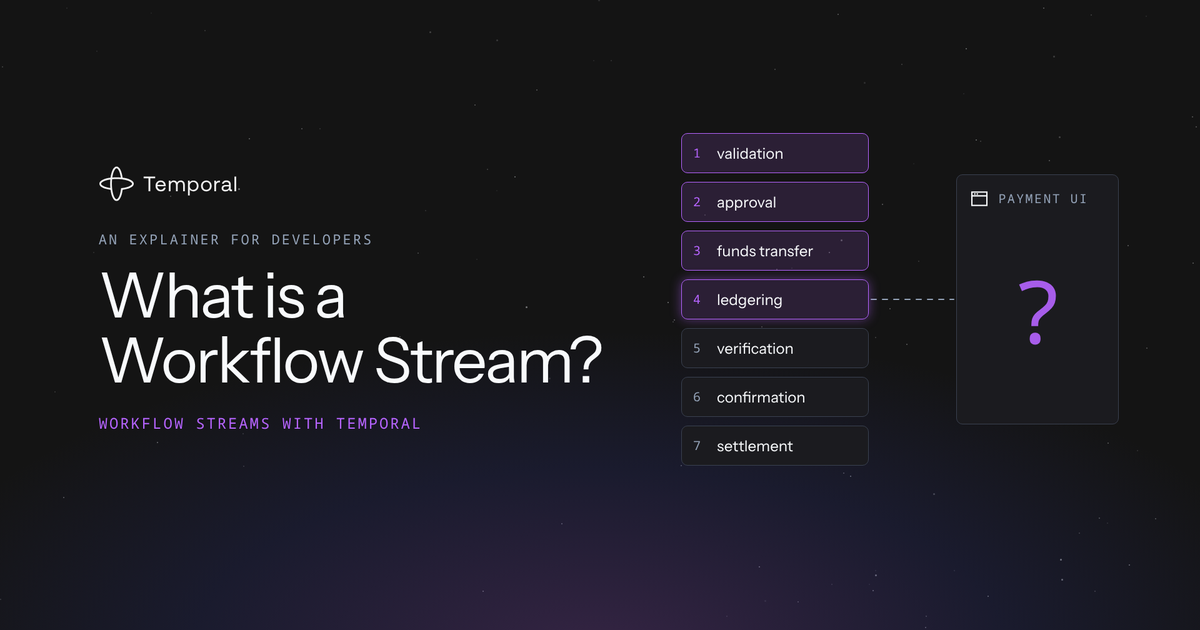
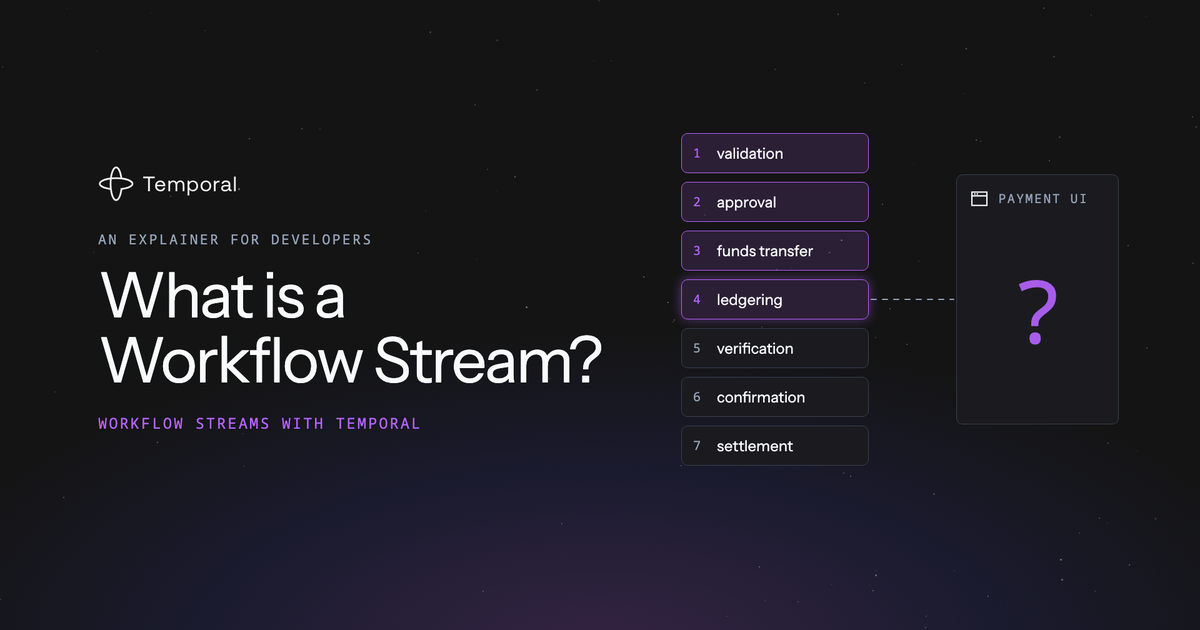
Fix the workflow-streams review findings
The subtitles write "Workflow ID", like the label, and subtitle 4 names
the UI. The Activity's line ends at the panel edge, where the batch chip
pops in clear of the ACTIVITY label; the WORKFLOW ID label sits 20 px
above the poll row; the offset pulse glows in each topic's color; the
no-broker tag, the link label and the intro title rest on whole pixels.
The status chips fly with the shared flyChip(), the PAYMENT UI heading
has one helper, and the page title is in sentence case after the colon.
Script, Markdown, link preview image and memory notes follow.

diff --git a/src/themes/workflow-streams/scenes/01-what-it-is.js b/src/themes/workflow-streams/scenes/01-what-it-is.js
@@ -1,17 +1,17 @@
 // ===================== 1. WHAT A WORKFLOW STREAM IS
 // The Workflow payment-7731 in the middle, its stream log of six offset slots; the Activity on its left, the
 // PAYMENT UI subscriber on its right. The Workflow code and the Activity (in batches) publish to the topics status and
-// progress, one offset count across both; the UI attaches by Workflow Id and long-polls from an offset, waits on the
+// progress, one offset count across both; the UI attaches by Workflow ID and long-polls from an offset, waits on the
 // next one, drops, reconnects from offset 4 and misses nothing. A UV tag closes: no broker, the log lives in the
 // Workflow.
 // The block keeps every name declared in this file local to this scene.
 {
   // Layout, in stage px before the shift: the Workflow panel (x 400-1240) between the Activity (x 120-300) and the
   // UI (x 1500-1800). In the panel, top to bottom: the heading row with the code chip on its right (HEAD_Y), STREAM
-  // over the log (STREAM_Y), the lane the Activity's batches travel along (LANE_Y, level with the Activity's center:
-  // its line enters the panel and ends with an arrow just above and left of slot 0), the log's six cells (CELL_Y,
-  // 128 px apart, x 442-1198), and the poll row under them (POLL_Y), on the line that joins the UI. The UI tile's top
-  // is level with the cells' top, its bottom with the panel's.
+  // over the log (STREAM_Y), the lane the Activity's batches travel along (LANE_Y, level with the Activity's center
+  // and with its line, which runs to the panel's left edge), the log's six cells (CELL_Y, 128 px apart, x 442-1198),
+  // and the poll row under them (POLL_Y), on the line that joins the UI. The UI tile's top is level with the cells'
+  // top, its bottom with the panel's.
   const PANEL = { x0: 400, x1: 1240, y0: 240, y1: 676 };
   const HEAD_Y = 290, STREAM_Y = 332, LANE_Y = 376, CELL_Y = 494, POLL_Y = 632;
   const cellX = i => 500 + i * 128;
@@ -21,8 +21,11 @@
   const UI = { x0: 1500, x1: 1800, y0: CELL_Y - LOG_CELL.h / 2, y1: PANEL.y1 };
   // the middle of the gap between the panel and the UI: the connection's label and the DISCONNECTED tag
   const GAP_X = (PANEL.x1 + UI.x0) / 2;
-  // where a batch pops in, between the Activity and the panel; where a poll pops in, beside the UI
-  const BATCH_FROM_X = 350, POLL_FROM_X = 1420;
+  // the connection's label, LINK_LABEL.w px wide (even: it rests on whole pixels), centered 72 px above the poll row:
+  // 20 px clear of the 56 px high copies that travel along the row
+  const LINK_LABEL = { w: 160, y: POLL_Y - 72 };
+  // where a poll pops in, beside the UI
+  const POLL_FROM_X = 1420;
   // the closing tag, 40 px under the panel
   const NO_BROKER_Y = PANEL.y1 + 40 + 33;
   // a list slot of the UI, on the stage
@@ -49,19 +52,18 @@
   // of 4 and 5; the closing tag
   const T4 = { drop: 0.2, publish4: 0.7, batch: 1.2, reconnect: 2.8, poll4: 3.1, copies: 4.2, noBroker: 5.5 };
 
-  // A status event published by the code: it pops on the code chip at `at`, flies to its cell and is absorbed there.
-  // Its cell fills at at + STATUS_LAND.
-  const STATUS_LAND = 0.6;
-  const flyStatus = (chip, t, at, i) => fly(chip, t, at, CODE.x, CODE.y, at + 0.1, 0.55, cellX(i), CELL_Y, at + 0.65,
-    cellX(i), CELL_Y);
-  // An Activity batch: one chip pops between the Activity and the panel, travels along the Activity's line and on
+  // A status event published by the code: it pops on the code chip at `at` and flies to its cell (flyChip), whose
+  // fill starts at at + STATUS_LAND, as the chip is absorbed there.
+  const STATUS_LAND = 0.5;
+  // An Activity batch: one chip pops in at the end of the Activity's line, its left edge on the panel's, travels
   // along the lane until it is over its cells, and splits there into one chip per event, which drop into their cells.
   // Its cells fill at at + BATCH_LAND.
   const BATCH_LAND = 1.25;
   const flyBatch = (batch, t, at) => {
     const xs = batch.offsets.map(cellX);
     const overX = (xs[0] + xs[xs.length - 1]) / 2;
-    fly(batch.chip, t, at, BATCH_FROM_X, LANE_Y, at + 0.15, 0.7, overX, LANE_Y, at + 0.85, overX, LANE_Y);
+    const fromX = PANEL.x0 + batch.chip.offsetWidth / 2;
+    fly(batch.chip, t, at, fromX, LANE_Y, at + 0.15, 0.7, overX, LANE_Y, at + 0.85, overX, LANE_Y);
     batch.parts.forEach((part, k) => fly(part, t, at + 0.85, overX, LANE_Y, at + 0.9, 0.4, xs[k], CELL_Y, at + 1.3,
       xs[k], CELL_Y));
   };
@@ -77,17 +79,16 @@
       { text: "A <b>Workflow Stream</b> is an event log inside a Workflow: publishers add events to named topics." },
       { text: "Each event gets the next <b>offset</b>: 0, 1, 2, 3, one count across every topic." },
       {
-        text: "A subscriber attaches by Workflow Id and long-polls from an offset: it gets every event from there on.",
+        text: "A subscriber attaches by Workflow ID and long-polls from an offset: it gets every event from there on.",
       },
       // a long hold on the final frame, for a presenter to talk over
-      { text: "If it drops, events keep arriving; it reconnects from offset 4 and misses nothing.", after: 2.5 },
+      { text: "If the UI drops, events keep arriving; it reconnects from offset 4 and misses nothing.", after: 2.5 },
     ],
     build(root, s) {
       s.svg = svgLayer(root);
-      // the Activity's line runs into the panel and points at the stream, just above and left of slot 0
-      const laneEnd = cellX(0) - LOG_CELL.w / 2 - 6;
-      s.activityLink = path(s.svg, `M ${ACTIVITY.x + ACTIVITY.size / 2 + 4} ${LANE_Y} L ${laneEnd} ${LANE_Y}`,
-        C.slate, 2);
+      // the Activity's line, from its tile to the panel's left edge, where its batches pop in
+      s.activityLink = path(s.svg, `M ${ACTIVITY.x + ACTIVITY.size / 2 + 4} ${LANE_Y} L ${PANEL.x0} ${LANE_Y}`,
+        C.slate, 2, false);
       // the subscriber's connection, drawn from the UI to the panel; its red dashed twin while it is down
       const lineD = `M ${UI.x0 - 2} ${POLL_Y} L ${PANEL.x1 + 2} ${POLL_Y}`;
       s.link = path(s.svg, lineD, C.slate, 3, false);
@@ -105,7 +106,7 @@
       s.linkLabel = E(root,
         '<div class="lbl" style="font-size:18px;line-height:24px">Workflow ID</div>'
         + `<div class="mono" style="font-size:18px;line-height:24px">${WORKFLOW_ID}</div>`,
-        '', { textAlign: 'center' });
+        '', { width: LINK_LABEL.w + 'px', textAlign: 'center' });
       s.down = fixedTag(root, 'Disconnected', 'red solid', null);
       Object.assign(s.down.style, { fontSize: '18px', lineHeight: '26px', padding: '6px 12px 6px calc(12px + .1em)' });
 
@@ -125,8 +126,8 @@
       s.copies = STREAM_EVENTS.map((event, i) => makeOffsetChip(root, i, event.topic,
         { w: SUB_LIST.w, h: SUB_LIST.h, font: SUB_LIST.font }));
 
-      s.noBroker = tag(root, 'No broker: the log lives in the Workflow', 'uv big');
-      s.chips = [s.code, s.down, ...s.status.map(e => e.chip), ...s.batches.flatMap(b => [b.chip, ...b.parts]),
+      s.noBroker = fixedTag(root, 'No broker: the log lives in the Workflow', 'uv big', null);
+      s.chips = [s.code, s.down, s.noBroker, ...s.status.map(e => e.chip), ...s.batches.flatMap(b => [b.chip, ...b.parts]),
         s.poll0, s.pollWait, s.pollAgain];
     },
     update(t, c, s) {
@@ -144,7 +145,8 @@
       const up = backPop(t, 0.3);
       place(s.ui, (UI.x0 + UI.x1) / 2, (UI.y0 + UI.y1) / 2, up.s, up.o);
       const codeK = statusAts.reduce((k, at) => k * swell(t, at, 0.08), 1);
-      place(s.code, CODE.x, CODE.y, popIn(t, 0.35).s * codeK, popIn(t, 0.35).o);
+      const cp = popIn(t, 0.35);
+      place(s.code, CODE.x, CODE.y, cp.s * codeK, cp.o);
 
       // the log: six empty slots, each filling as its event lands; the offsets 0 to 3 pulse as the subtitle reads them
       const fillAts = [statusAts[0], batchAts[0], batchAts[0], statusAts[1], statusAts[2], batchAts[1]]
@@ -157,7 +159,7 @@
       });
 
       // the publishers
-      s.status.forEach(({ i, chip }, k) => flyStatus(chip, t, statusAts[k], i));
+      s.status.forEach(({ i, chip }, k) => flyChip(chip, t, statusAts[k], CODE.x, CODE.y, cellX(i), CELL_Y));
       s.batches.forEach((batch, k) => flyBatch(batch, t, batchAts[k]));
 
       // the connection: drawn as the UI attaches, red and dashed while it is down, drawn again on the reconnect
@@ -167,14 +169,13 @@
       s.broken.style.opacity = win(t, at4('drop'), at4('reconnect'), 0.15);
       const lp = popIn(t, at3('label'));
       const downDim = 1 - 0.6 * win(t, at4('drop'), at4('reconnect'), 0.15);
-      place(s.linkLabel, GAP_X, POLL_Y - 48, lp.s, lp.o * downDim);
+      place(s.linkLabel, GAP_X, LINK_LABEL.y, lp.s, lp.o * downDim);
       const dp = popIn(t, at4('drop') + 0.15);
       place(s.down, GAP_X, POLL_Y + 44, dp.s, dp.o * (1 - P(t, at4('reconnect'), 0.3)));
 
       // poll from 0: slides under offset 0 and is taken in there
       const p0 = backPop(t, at3('poll0'), 0.35);
       const p0In = P(t, at3('poll0') + 0.9, 0.3, easeIn);
-      setPollChip(s.poll0);
       place(s.poll0, pollX(t, at3('poll0'), cellX(0)), POLL_Y, p0.s * (1 - 0.6 * p0In), p0.o * (1 - p0In));
       // poll from 4: slides under the empty slot 4 and waits there (the long poll), until the connection drops
       const pw = backPop(t, at3('poll4'), 0.35);
@@ -184,7 +185,6 @@
       // poll from 4 again, after the reconnect: slot 4 and 5 are filled, so it is answered at once
       const pa = backPop(t, at4('poll4'), 0.35);
       const paIn = P(t, at4('poll4') + 0.9, 0.3, easeIn);
-      setPollChip(s.pollAgain);
       place(s.pollAgain, pollX(t, at4('poll4'), cellX(4)), POLL_Y, pa.s * (1 - 0.6 * paIn), pa.o * (1 - paIn));
 
       // the copies: 0 to 3 answer the first poll, 4 and 5 the poll after the reconnect; each one stays in its slot

diff --git a/src/themes/workflow-streams/shared.js b/src/themes/workflow-streams/shared.js
@@ -1,4 +1,6 @@
 // ===================== Workflow Streams helpers (shared by the scenes of this theme)
+// Most of them build chapter 1's components (the stream log, its publishers and its subscriber); the intro reuses
+// the PAYMENT UI heading, the outro the running example's events and the offset chips.
 // Extra stroke icons (24 grid), in the hand-drawn style of engine.js
 Object.assign(ICONS, {
   // a browser window: its frame, the tab bar and two dots on it
@@ -58,15 +60,15 @@ function makeLogCell(root, offset, { topic, text }) {
   cell.topic = TOPICS[topic];
   return cell;
 }
-// fill: 0 empty to 1 filled (the event's content fades in once the slot turns solid); pulse: 0 to 1, a glow and
-// swell of the offset number while it is read out
+// fill: 0 empty to 1 filled (the event's content fades in once the slot turns solid); pulse: 0 to 1, a glow in its
+// topic's color and swell of the offset number while it is read out
 function setLogCell(cell, fill, pulse = 0) {
   const { color, rgb } = cell.topic;
   cell.style.border = fill > 0 ? `1px solid ${color}` : `1px dashed ${C.lineLight}`;
   cell.style.background = fill > 0 ? `rgba(${rgb},${(0.1 * fill).toFixed(3)})` : 'transparent';
   cell.body.style.opacity = fill;
   cell.num.style.transform = `scale(${1 + 0.22 * pulse})`;
-  cell.num.style.textShadow = glowShadow(RGB.violet, pulse, { blur: 18 });
+  cell.num.style.textShadow = glowShadow(rgb, pulse, { blur: 18 });
 }
 
 // An offset received, as a small square chip in its topic's color holding the offset number: the copies that travel
@@ -110,6 +112,10 @@ function makeCodeChip(root) {
     C.violet, 'var(--violet-solid)');
 }
 
+// The heading of a PAYMENT UI tile, its browser icon and label, top px under the tile's top edge (HTML)
+const uiHeadingHtml = top => `<div style="position:absolute;left:20px;top:${top}px;height:32px;display:flex;`
+  + `align-items:center;gap:12px">${ICON('browser', 32, C.ink, 1.6)}<span class="lbl">Payment UI</span></div>`;
+
 // The subscriber, w x h: a PAYMENT UI tile with a fixed-width readout of the next offset it asks for (SUB_READOUT),
 // then its list of the offsets received, a 3 x 2 grid of dashed slots (SUB_LIST), both from its top left corner;
 // tile.slots: the slots, which the scene hides once an offset chip rests on one, so no dash shows round it
@@ -128,8 +134,7 @@ function makeSubscriberTile(root, w, h) {
       + '</div>';
   }).join('');
   const tile = E(root,
-    '<div style="position:absolute;left:20px;top:18px;height:32px;display:flex;align-items:center;gap:12px">'
-    + `${ICON('browser', 32, C.ink, 1.6)}<span class="lbl">Payment UI</span></div>`
+    uiHeadingHtml(18)
     + slots
     + `<div class="readout mono" style="position:absolute;left:${(w - SUB_READOUT.w) / 2}px;`
     + `top:${SUB_READOUT.top}px;width:${SUB_READOUT.w}px;height:${SUB_READOUT.h}px;line-height:${SUB_READOUT.h - 2}px;`
@@ -147,7 +152,7 @@ function setReadout(tile, t, n, o, changedAt = -1) {
 }
 
 // A subscriber's long poll from an offset: a neutral chip; one that waits carries a violet spinner, hidden until
-// setPollChip shows it
+// setPollChip() shows it
 function makePollChip(root, from, waits = false) {
   const wait = waits ? `<span class="wait" style="opacity:0">${spinnerRing(18)}</span>` : '';
   const chip = makeChip(root,
@@ -157,10 +162,10 @@ function makePollChip(root, from, waits = false) {
   chip.spin = chip.querySelector('.spin');
   return chip;
 }
-// wait: opacity of the spinner, which turns on the ambient clock; failed: the poll's connection dropped (red border)
-function setPollChip(chip, { wait = 0, failed = false } = {}) {
+// A poll chip that waits: wait, the opacity of its spinner, which turns on the ambient clock; failed, its connection
+// dropped (red border)
+function setPollChip(chip, { wait, failed }) {
   chip.style.borderColor = failed ? C.red : C.slate;
-  if (!chip.wait) return;
   chip.wait.style.opacity = wait;
   chip.spin.style.transform = `rotate(${G * 400}deg)`;
 }

diff --git a/src/themes/workflow-streams/scenes/00-intro.js b/src/themes/workflow-streams/scenes/00-intro.js
@@ -40,14 +40,13 @@
         return row;
       });
       s.ui = E(root,
-        '<div style="position:absolute;left:20px;top:22px;height:32px;display:flex;align-items:center;gap:12px">'
-        + `${ICON('browser', 32, C.ink, 1.6)}<span class="lbl">Payment UI</span></div>`
+        uiHeadingHtml(22)
         + `<div class="q mono" style="position:absolute;left:0;right:0;top:140px;font-size:140px;line-height:160px;`
         + `color:${C.violet}">?</div>`,
         'tile', { width: UI.w + 'px', height: UI.h + 'px' });
       s.q = s.ui.querySelector('.q');
       s.t = makeTitleBlock(root, 'AN EXPLAINER FOR DEVELOPERS', 'What is a<br>Workflow Stream?',
-        'WORKFLOW STREAMS WITH TEMPORAL', { titleFont: 100, titleLineHeight: 1.04 });
+        'WORKFLOW STREAMS WITH TEMPORAL', { titleFont: 100, titleLineHeight: 1.04, box: [806, 428] });
     },
     update(t, c, s) {
       rise(s.t, TITLE.x, TITLE.y, P(t, 0.15, 0.9));

diff --git a/src/themes/workflow-streams/index.html b/src/themes/workflow-streams/index.html
@@ -1,7 +1,7 @@
 <!doctype html>
 <html lang="en"><head><meta charset="utf-8">
 <meta name="viewport" content="width=device-width, initial-scale=1">
-<title>Workflow Streams: Live Progress from Temporal Workflows</title>
+<title>Workflow Streams: live progress from Temporal Workflows</title>
 <meta name="description" content="How a Temporal Workflow Stream lets a UI follow a Workflow's progress live, and
   resume from an offset after a disconnect.">
 <meta name="audience" content="Developers">

diff --git a/docs/workflow-streams/script.md b/docs/workflow-streams/script.md
@@ -3,7 +3,7 @@
 Subtitles are the only narration (no audio). Each subtitle lasts as long
 as its text needs (`autoDur` in `src/engine.js`), plus its `after` pause.
 Run `make timeline THEME=workflow-streams` for the live values; the start
-times below are a snapshot from 2026-11-10.
+times below are a snapshot from 2026-11-12.
 
 Each entry gives the subtitle start time and its exact text, then what the
 animation shows.
@@ -47,33 +47,36 @@ Activity in batches), read by a PAYMENT UI. No customer name appears.
 - **0:09** A Workflow Stream is an event log inside a Workflow: publishers
   add events to named topics.
   - Visuals: ACTIVITY tile ("funds check") on the left, its line running
-    into the WORKFLOW `payment-7731` panel; a "workflow code" chip in the
-    panel heading; the STREAM, six empty dashed slots. The Workflow code
-    publishes `status` "validation started" into offset 0; the Activity
-    sends one "batch: 2 events" chip along its line, which splits into
-    `progress` "checking account" and "balance ok", offsets 1 and 2.
+    to the edge of the WORKFLOW `payment-7731` panel; a "workflow code"
+    chip in the panel heading; the STREAM, six empty dashed slots. The
+    Workflow code publishes `status` "validation started" into offset 0;
+    a "batch: 2 events" chip pops in where the Activity's line meets the
+    panel and travels above the log, then splits into `progress`
+    "checking account" and "balance ok", offsets 1 and 2.
 - **0:15** Each event gets the next offset: 0, 1, 2, 3, one count across
   every topic.
   - Visuals: the Workflow code publishes `status` "validation passed" into
-    offset 3; the offsets 0 to 3 pulse in turn as the subtitle reads them.
-- **0:21** A subscriber attaches by Workflow Id and long-polls from an
+    offset 3; the offsets 0 to 3 pulse in turn, each in its topic's color,
+    as the subtitle reads them.
+- **0:21** A subscriber attaches by Workflow ID and long-polls from an
   offset: it gets every event from there on.
-  - Visuals: the PAYMENT UI connects (WORKFLOW ID `payment-7731` on the
-    line); "poll from 0" goes to the log, copies of 0 to 3 travel back into
-    the UI's list, "next offset 4"; a second "poll from 4" waits at slot 4
-    with a spinner: the long poll.
-- **0:28** If it drops, events keep arriving; it reconnects from offset 4
-  and misses nothing.
+  - Visuals: the PAYMENT UI connects (WORKFLOW ID `payment-7731` above
+    the line); "poll from 0" goes to the log, copies of 0 to 3 travel back
+    into the UI's list, "next offset 4"; a second "poll from 4" waits at
+    slot 4 with a spinner: the long poll.
+- **0:28** If the UI drops, events keep arriving; it reconnects from
+  offset 4 and misses nothing.
   - Visuals: the line turns red and dashed, DISCONNECTED; `status`
-    "approval started" lands in offset 4 and a one-event batch, `progress`
-    "risk check", in offset 5; the UI reconnects, polls from 4, receives 4
-    and 5, "next offset 6", its list complete; the tag "No broker: the log
-    lives in the Workflow" pops under the composition and holds.
+    "approval started" lands in offset 4 and a one-event batch from the
+    Activity, `progress` "risk check", in offset 5; the UI reconnects,
+    polls from 4, receives 4 and 5, "next offset 6", its list complete;
+    the tag "No broker: the log lives in the Workflow" pops under the
+    composition and holds.
 
 ## Outro
 
-- **0:37** Workflow Streams: live progress from a Workflow, with no broker
+- **0:38** Workflow Streams: live progress from a Workflow, with no broker
   to run.
-  - Visuals: six offset chips coloured by topic above the end card
+  - Visuals: six offset chips colored by topic above the end card
     "Workflow Streams", tagline "LIVE PROGRESS FROM YOUR WORKFLOWS", pill
     "Public Preview", Temporal logo.

diff --git a/.claude/project-memory/references/project_theme-anatomy.md b/.claude/project-memory/references/project_theme-anatomy.md
@@ -55,11 +55,13 @@ the visuals belong to each theme (last section).
 - Recap: **What you get** has its own scene file after the topic
   chapters. Recap tiles and subtitles live there, never in a topic
   chapter, so every chapter title stays true to its content.
+  workflow-streams, a single-chapter explainer, has no recap.
 - Use cases: every explainer has a **What you can build** chapter after
   the recap, right before the outro (`NN-use-cases.js`); a product
   presentation (agent-harness), a guide (worker-tuning) and
   ai-agent-security, whose incidents are its concrete cases, end on their
-  recap. Topic lists in
+  recap; workflow-streams, a single-chapter explainer, has neither
+  chapter and ends on its topic chapter. Topic lists in
   `script.md` leave out both chapters.
   - The scene is one `useCaseScene({ chapter, uses, namedAt, subs })`
     call (`src/shared.js`). 4 `useCaseTile`s (icon, uppercase label,

diff --git a/.claude/project-memory/references/feedback_home-page.md b/.claude/project-memory/references/feedback_home-page.md
@@ -23,8 +23,8 @@ The theme picker (`src/index.html`, `src/home.css`) follows these rules:
   Security (a shield whose lock snaps shut on hover), Temporal Proxy 1.0
   (a gateway box whose converging lines draw in on hover), AI Agent
   Security (a shield holding an agent orb, whose checkpoint bar slides
-  shut below it on hover), Workflow Streams (three log cells above an
-  arrow, which fill left to right on hover).
+  shut below it on hover), Workflow Streams (three log cells, which fill
+  left to right on hover, above an arrow).
 - The home page `<meta name="description">` names the themes and is
   edited by hand.
 - Cards show no video duration.

diff --git a/src/themes/workflow-streams.md b/src/themes/workflow-streams.md
@@ -14,8 +14,8 @@ still running?
 
 A Workflow Stream is an event log inside a Workflow: publishers add events to
 named topics. Each event gets the next offset: 0, 1, 2, 3, one count across
-every topic. A subscriber attaches by Workflow Id and long-polls from an offset:
-it gets every event from there on. If it drops, events keep arriving; it
+every topic. A subscriber attaches by Workflow ID and long-polls from an offset:
+it gets every event from there on. If the UI drops, events keep arriving; it
 reconnects from offset 4 and misses nothing.
 
 Source: [Workflow Streams (Temporal docs)](https://docs.temporal.io/workflow-streams)
